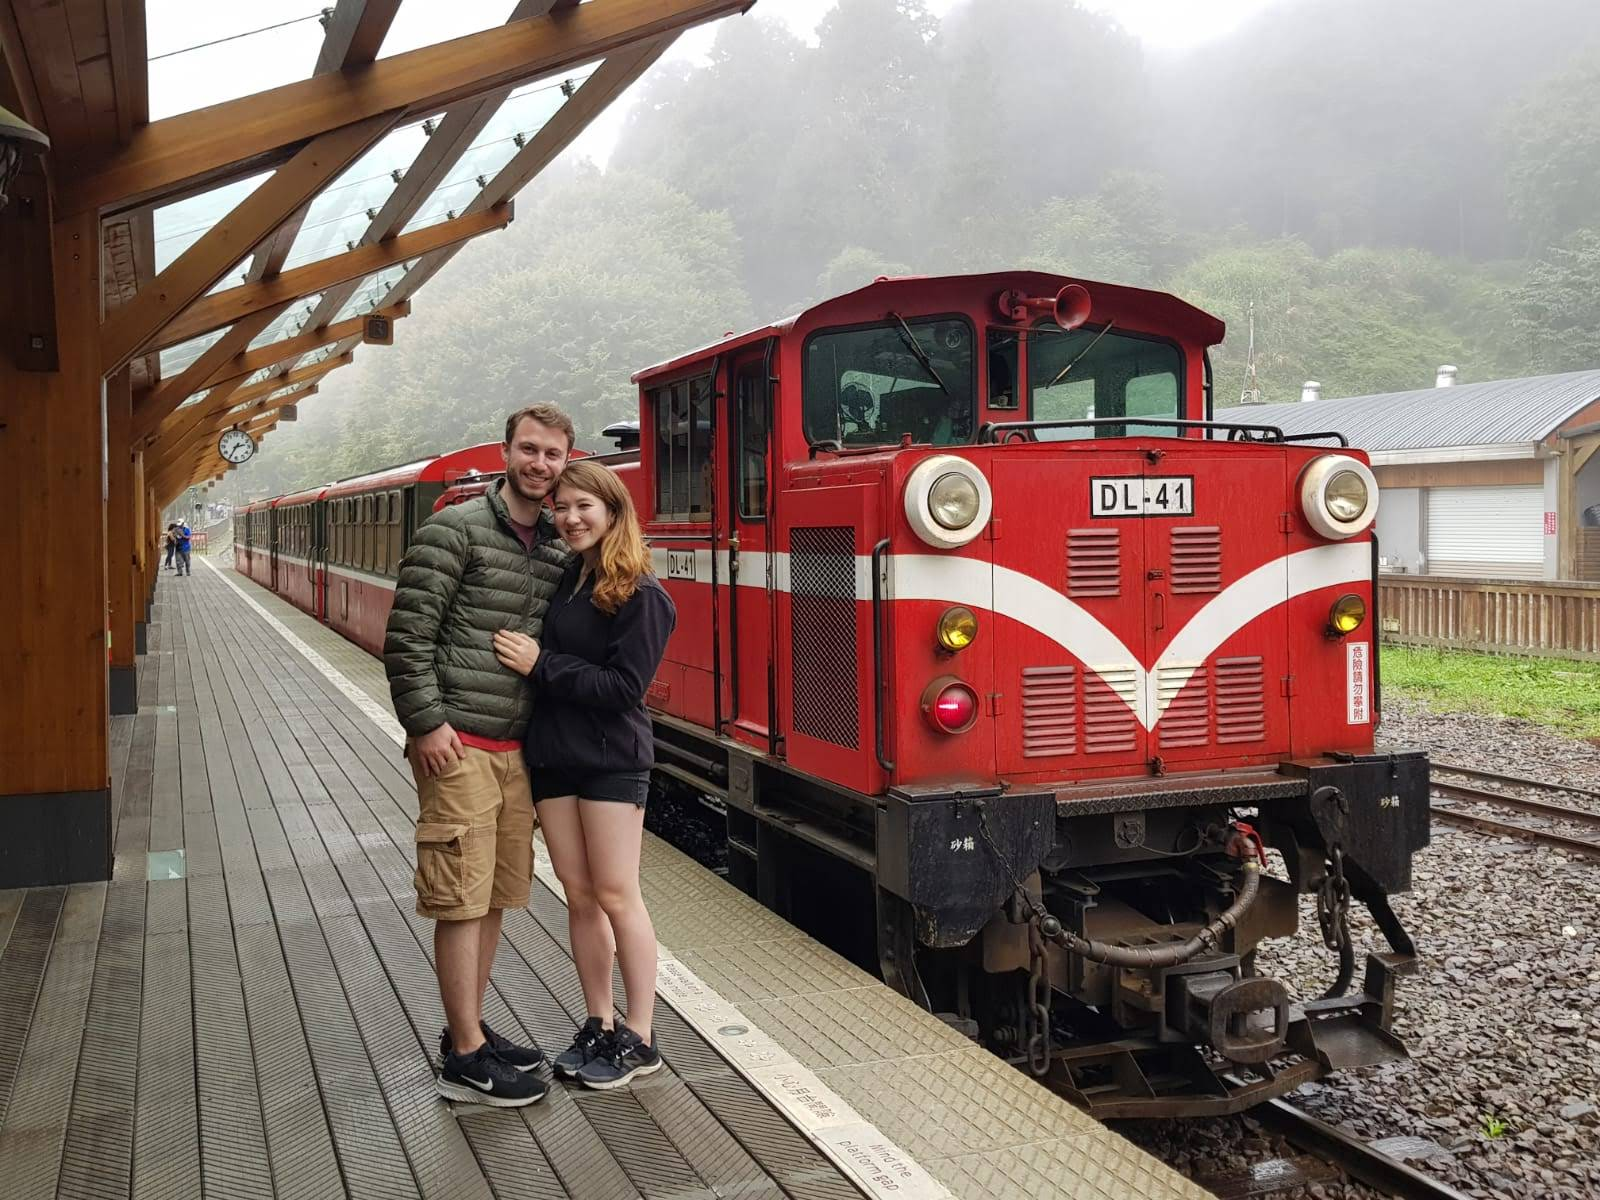
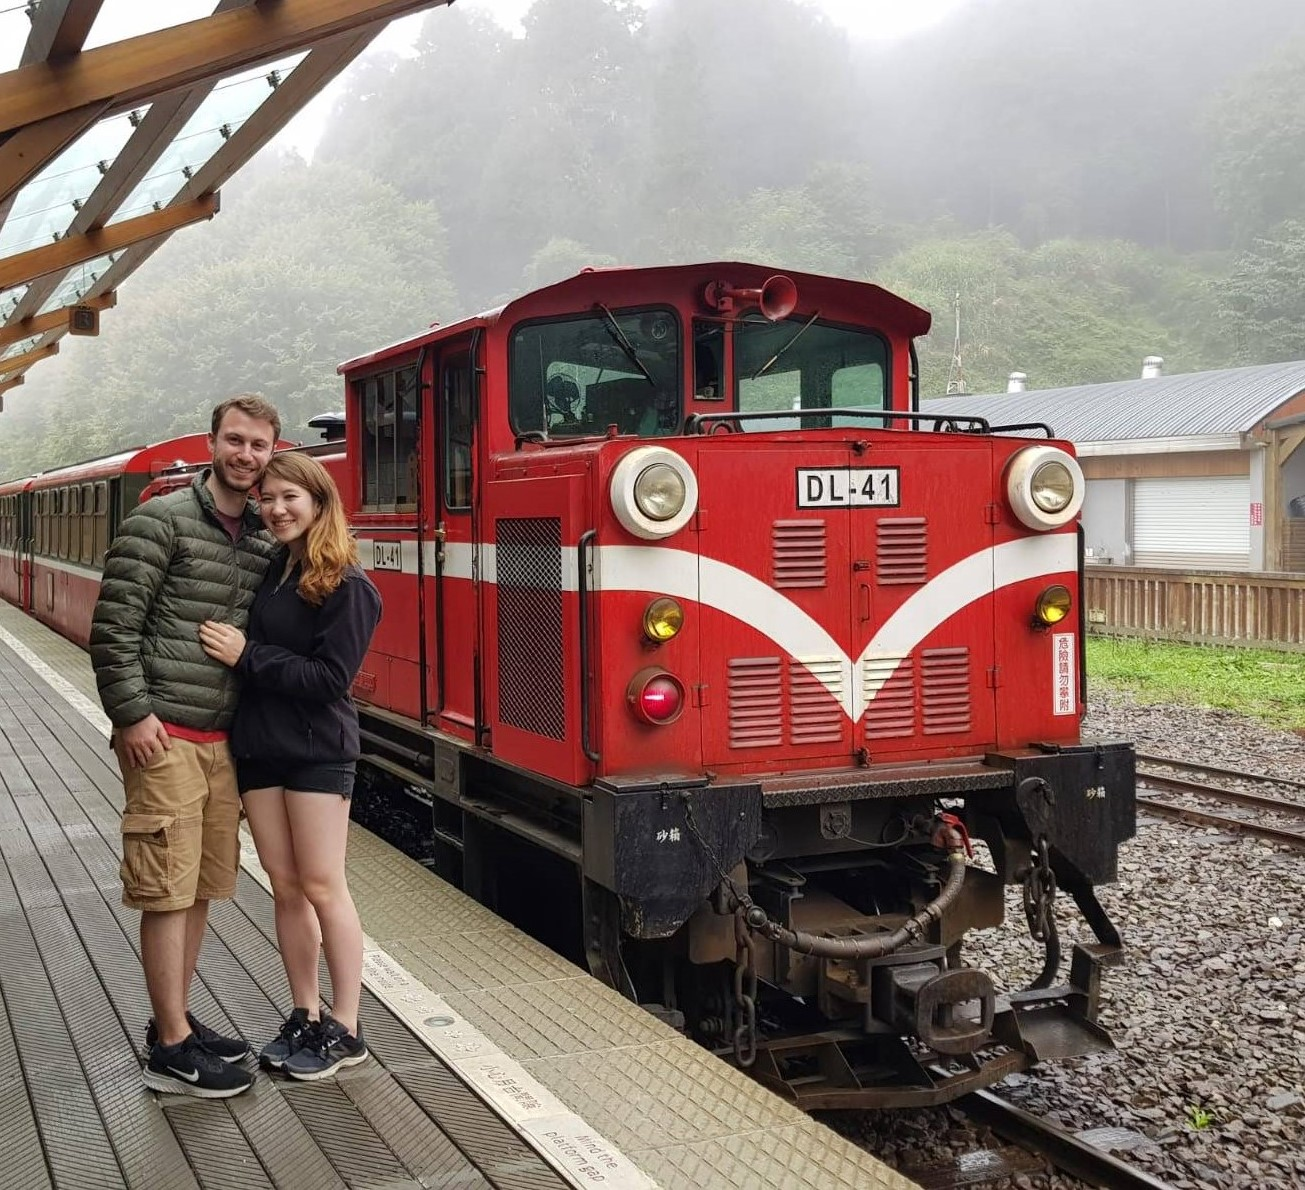
Add files via upload

diff --git a/index.html b/index.html
@@ -55,7 +55,7 @@
     .panel2 { background-image:url(images/shifen.jpg); }
     .panel3 { background-image:url(images/london.jpg); }
     .panel4 { background-image:url(images/boston.jpg); }
-    .panel5 { background-image:url(images/alishan2.jpg); }
+    .panel5 { background-image:url(images/alishan.jpg); }
 
     /* Flex Children */
     .panel > * {
